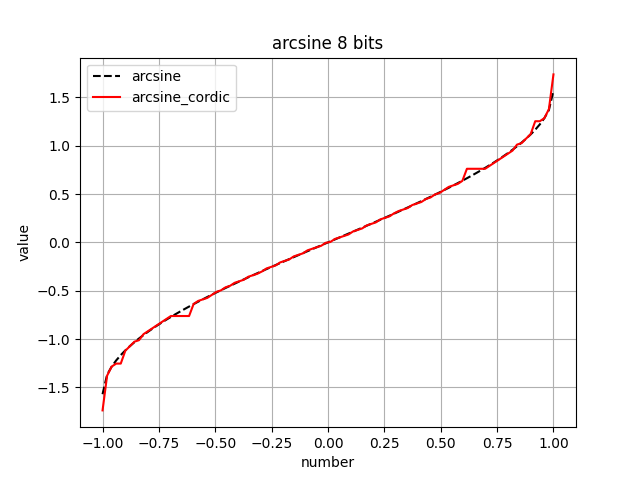
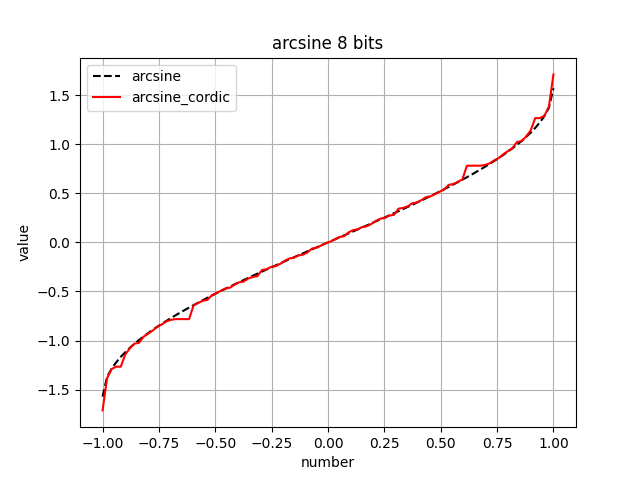
Курсовая по АиСД. Петров Дмитрий, 3352. Доработка

diff --git a/main.py b/main.py
@@ -7,7 +7,6 @@ import numpy as np
 from math import sin as math_sin
 from math import cos as math_cos
 from math import asin as math_asin
-from math import acos as math_acos
 
 corners = [
     0.7853981633974483,
@@ -45,7 +44,7 @@ corners = [
 ]
 
 frac_bits = 12
-_format = {'signed': True, 'm': 8, 'n': frac_bits}
+_format = {'signed': True, 'm': 8, 'n': frac_bits, 'rounding': 'in'}
 
 pi = 3.1415926535897932
 pi_fixed = FixedPoint(pi, **_format)
@@ -55,7 +54,7 @@ inf = float('inf')
 def angles(qf: dict) -> list:
     res = []
 
-    for i in range(min(qf['n'], len(corners))):
+    for i in range(len(corners)):
         r = FixedPoint(corners[i], **qf)
         if r == 0:
             break
